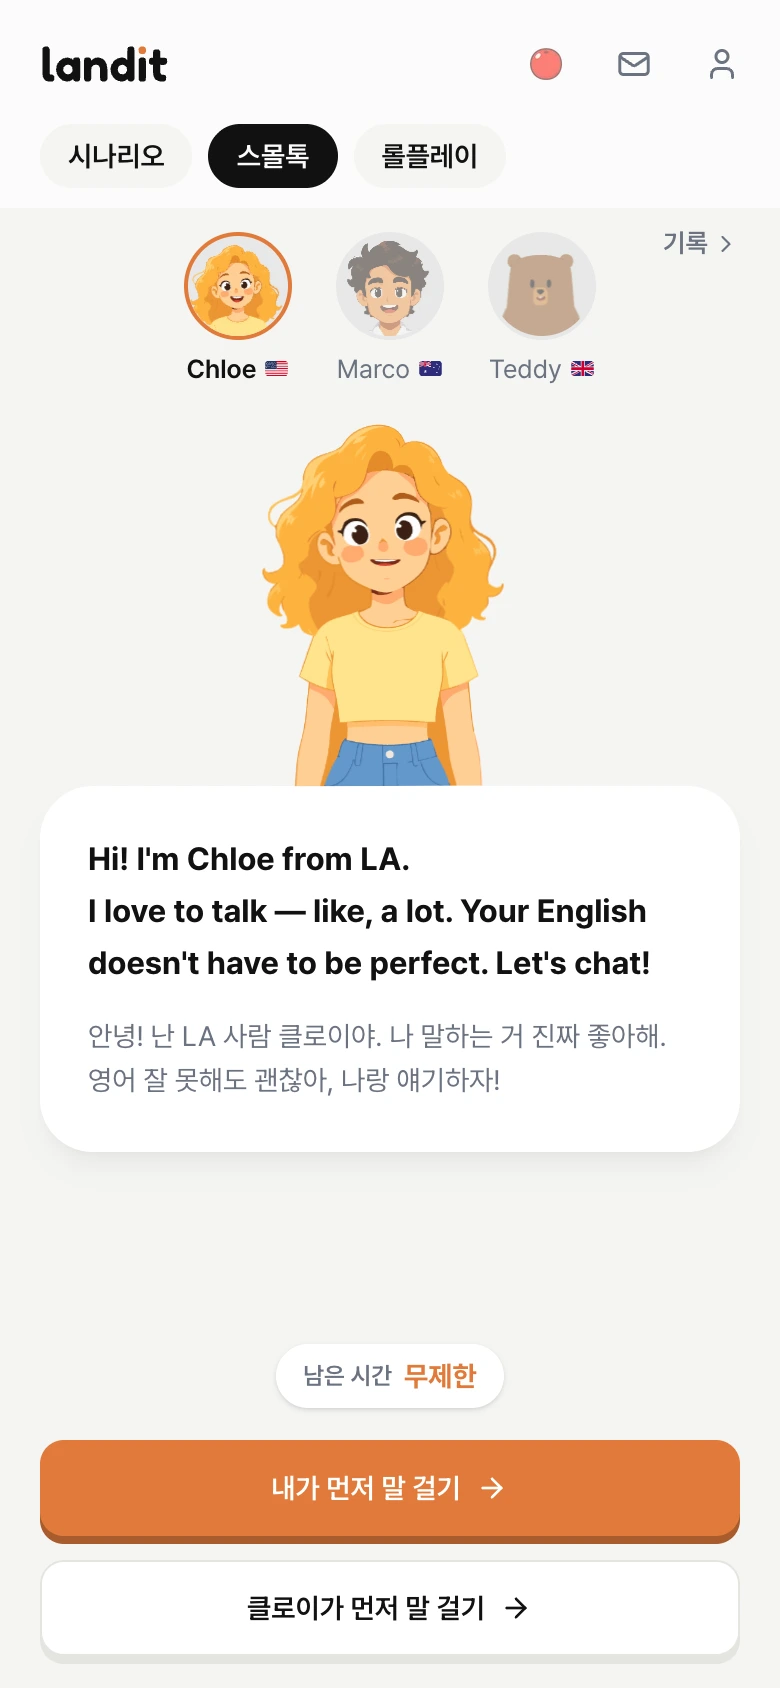
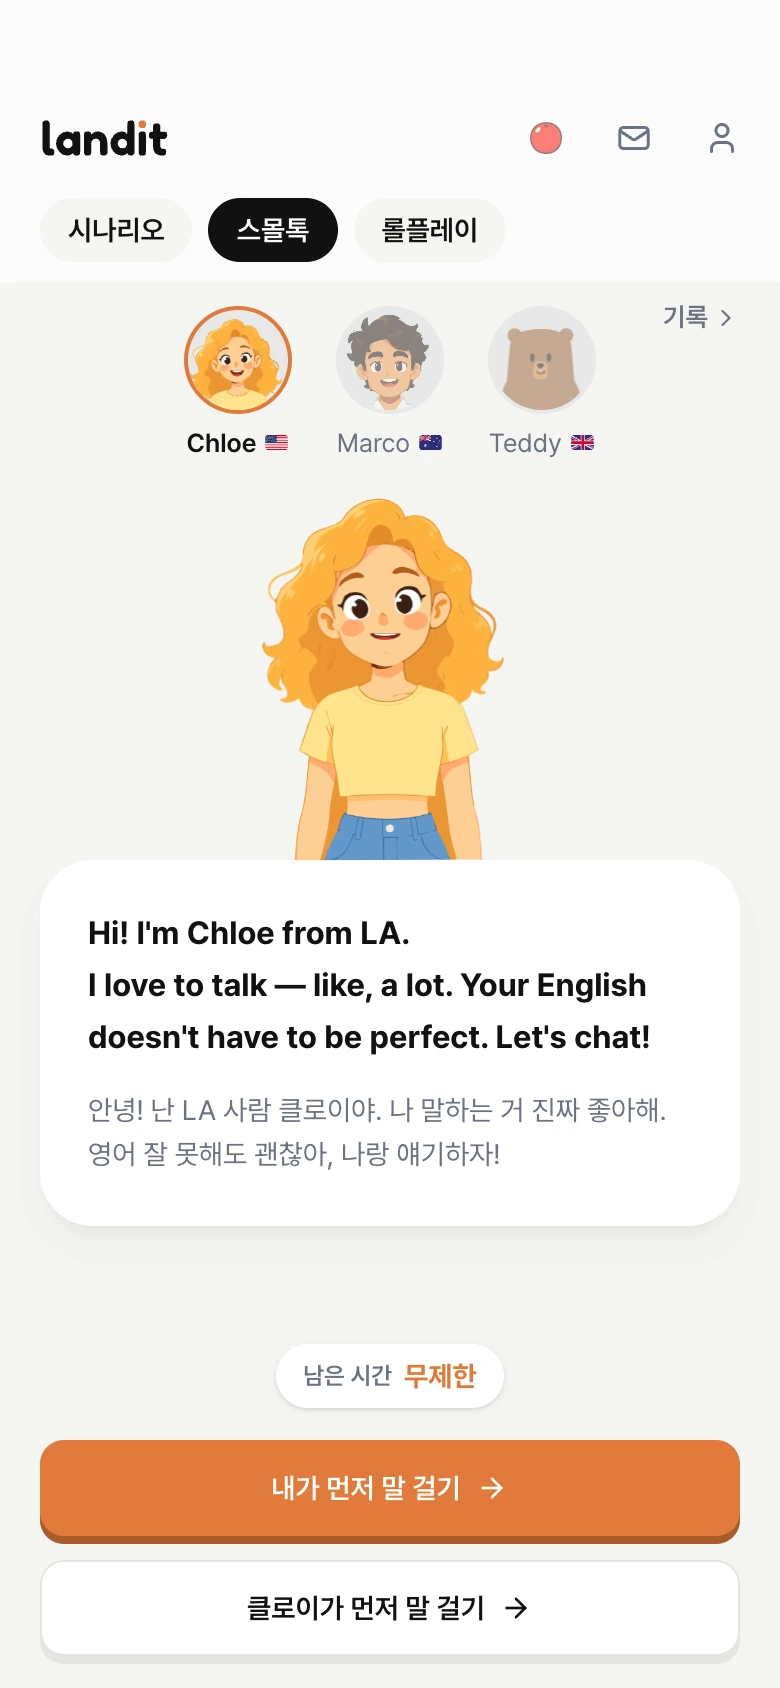
fix(web): 스몰톡 화면을 위 안전 영역까지 다시 찍는다
- 스몰톡 캡처에 상태 표시줄 자리가 빠져 머리글이 위로 붙어 보였다
- 롤플레이 화면 머리글을 스몰톡과 같은 높이로 맞춰 넘어갈 때 튀지 않게 한다
- 같은 주소의 옛 그림이 남지 않게 화면 버전을 올린다

diff --git a/apps/web/src/app/(public)/[lang]/_model/screen-image.ts b/apps/web/src/app/(public)/[lang]/_model/screen-image.ts
@@ -2,7 +2,7 @@
 import type { Locale } from '@/shared/i18n/locale';
 
 /** 캡처를 다시 찍으면 올린다 — 같은 주소의 옛 그림이 브라우저에 하루 동안 남기 때문이다 */
-const SCREENS_VERSION = 3;
+const SCREENS_VERSION = 5;
 
 /** 폰 화면 캡처 경로 — 일본어 화면은 일본어로 다시 찍은 캡처를 쓴다 */
 export const screenPath = (locale: Locale, shot: string) =>
